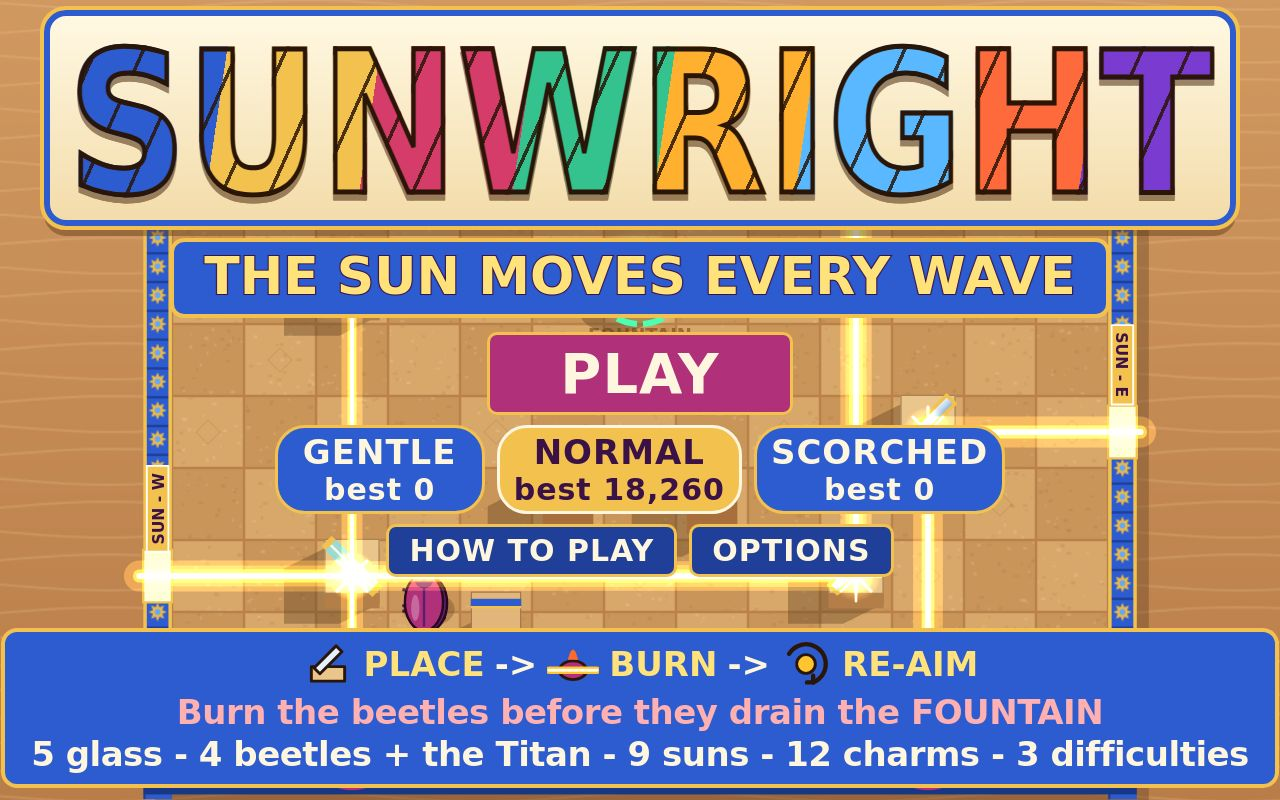
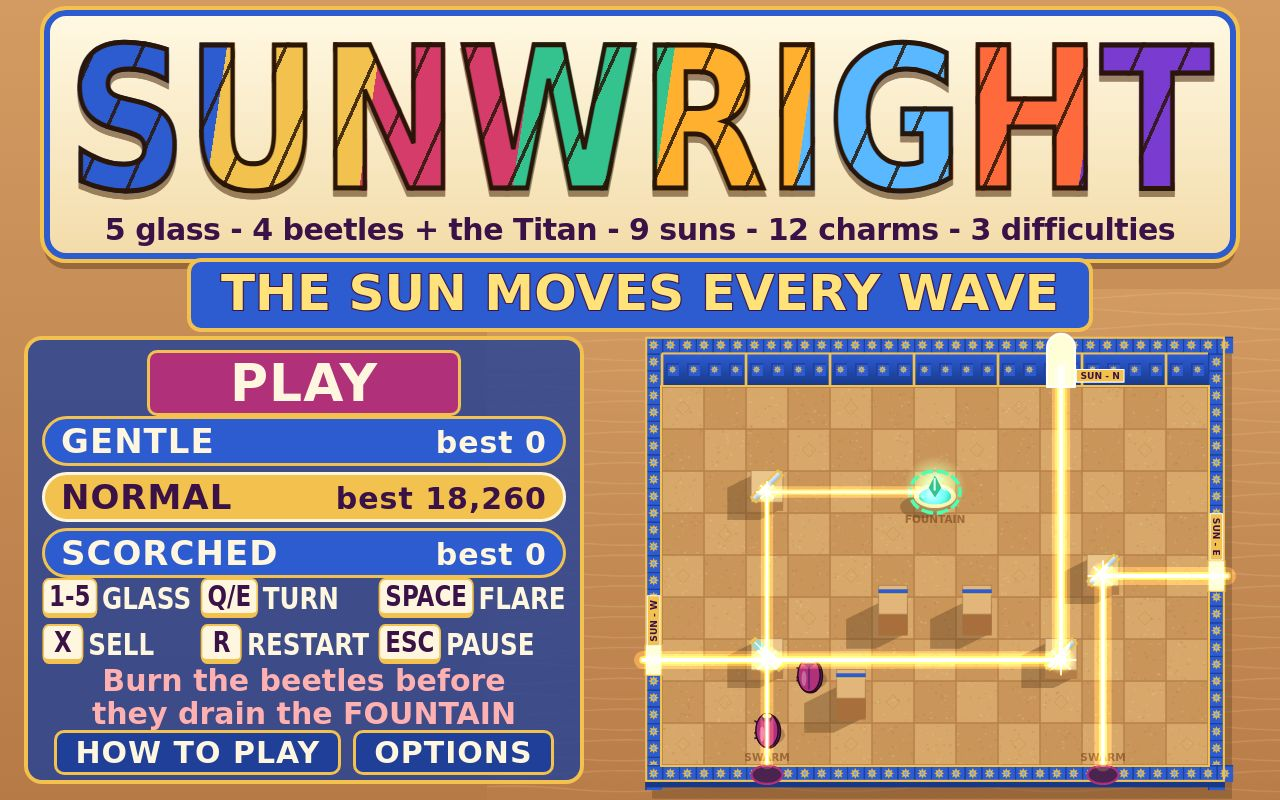
Title: menu card on the left (PLAY, difficulty pills, keycap rows for every control, lose rule), scope line as the wordmark's subtitle, three-sun courtyard on the right with its labels uncovered

diff --git a/game/style.css b/game/style.css
@@ -10,33 +10,32 @@ button:disabled { opacity: 0.45; cursor: default; }
 button.big { font-size: 30px; padding: 14px 40px; background: #b0307a; }
 button.big:hover { background: #cf3f93; }
 
-/* Title: a stained-glass wordmark on a bright plaque over the live courtyard, the hook, PLAY,
-   difficulty pills with best scores, and one rules box (loop pictograms, lose rule, scope). */
-#title-screen { background: none; }
-.banner { margin-top: 10px; width: 1180px; display: flex; justify-content: center; padding: 0; background: linear-gradient(#fff8e2, #f3dcaa); border: 6px solid #2d5bd0; outline: 4px solid #f2c14e; border-radius: 22px; box-shadow: 0 10px 0 rgba(91, 58, 30, 0.45); }
-#wordmark { margin: -6px 0 -18px; white-space: nowrap; transform: scaleX(0.84); font: 900 196px system-ui, sans-serif; letter-spacing: 0; color: transparent;
+/* Title: the stained-glass wordmark with the scope line, the hook, a lapis menu card on the left,
+   the live courtyard (three suns) on the right. */
+#title-screen { display: block; background: none; }
+.banner { position: absolute; left: 50%; top: 10px; transform: translateX(-50%); width: 1180px; display: flex; flex-direction: column; align-items: center; padding: 0 0 6px; background: linear-gradient(#fff8e2, #f3dcaa); border: 6px solid #2d5bd0; outline: 4px solid #f2c14e; border-radius: 22px; box-shadow: 0 10px 0 rgba(91, 58, 30, 0.45); }
+#wordmark { margin: -10px 0 -22px; white-space: nowrap; transform: scaleX(0.84); font: 900 196px system-ui, sans-serif; letter-spacing: 0; color: transparent;
   background-image: repeating-linear-gradient(118deg, transparent 0 46px, rgba(42, 22, 8, 0.85) 46px 50px), linear-gradient(100deg, #2d5bd0 0 14%, #f2c14e 14% 27%, #d63c6a 27% 40%, #34c38f 40% 52%, #ffb02e 52% 64%, #59b8ff 64% 77%, #ff6a3d 77% 88%, #7a3bd0 88%);
   -webkit-background-clip: text; background-clip: text; -webkit-text-stroke: 5px #2a1608; filter: drop-shadow(0 6px 0 rgba(91, 58, 30, 0.6)); }
-.hook { margin: 12px 0 0; padding: 4px 30px 8px; font: 900 52px system-ui, sans-serif; color: #ffe27a; background: #2d5bd0; border: 4px solid #f2c14e; border-radius: 14px; -webkit-text-stroke: 2px #3b1247; paint-order: stroke fill; }
-.menu { margin-top: 14px; display: flex; flex-direction: column; align-items: center; gap: 10px; }
-#play-button { font-size: 56px; padding: 6px 70px; }
-.picker { display: flex; gap: 12px; }
-.row { display: flex; gap: 12px; }
-.row button { font-size: 30px; padding: 6px 20px; }
-.diff { display: flex; flex-direction: column; align-items: center; min-width: 210px; padding: 4px 14px; background: #2d5bd0; border-radius: 30px; }
+.scope { margin: 0; font: 900 30px system-ui, sans-serif; color: #3b1247; white-space: nowrap; letter-spacing: -0.5px; }
+.hook { position: absolute; left: 50%; top: 258px; transform: translateX(-50%); margin: 0; padding: 2px 30px 6px; white-space: nowrap; font: 900 50px system-ui, sans-serif; color: #ffe27a; background: #2d5bd0; border: 4px solid #f2c14e; border-radius: 14px; -webkit-text-stroke: 2px #3b1247; paint-order: stroke fill; }
+.title-card { position: absolute; left: 24px; top: 336px; bottom: 16px; width: 560px; box-sizing: border-box; display: flex; flex-direction: column; align-items: center; justify-content: space-between; padding: 10px 14px; background: rgba(31, 63, 153, 0.8); border: 4px solid #f2c14e; border-radius: 18px; }
+#play-button { font-size: 52px; padding: 0 80px; }
+.picker { display: flex; flex-direction: column; gap: 6px; width: 100%; }
+.diff { display: flex; justify-content: space-between; align-items: baseline; width: 100%; padding: 2px 16px; background: #2d5bd0; border-radius: 26px; }
 .diff b { font-size: 34px; }
-.diff.on { background: #f2c14e; color: #3b1247; border-color: #fff6df; }
 .diff small { font-weight: 800; font-size: 30px; }
+.diff.on { background: #f2c14e; color: #3b1247; border-color: #fff6df; }
+.keycaps { display: grid; grid-template-columns: auto auto auto; gap: 6px 12px; font: 900 30px system-ui, sans-serif; color: #fff6df; transform: scaleX(0.82); }
+.keycaps span { display: flex; align-items: center; gap: 6px; white-space: nowrap; }
+kbd { display: inline-block; min-width: 34px; padding: 0 6px; font: 900 28px system-ui, sans-serif; text-align: center; color: #3b1247; background: #fff6df; border: 2px solid #f2c14e; border-bottom-width: 5px; border-radius: 8px; }
+#rule-lose { margin: 0; font: 900 30px system-ui, sans-serif; line-height: 1.1; text-align: center; color: #ffb0b0; }
+.row { display: flex; gap: 12px; }
+.row button { font-size: 30px; padding: 2px 18px; }
 .options label { display: grid; grid-template-columns: 220px 200px; justify-items: start; align-items: center; gap: 16px; font-weight: 800; font-size: 20px; }
 .options input[type=range] { width: 200px; accent-color: #f2c14e; }
 .options input[type=checkbox] { width: 24px; height: 24px; accent-color: #f2c14e; }
 .keys { margin: 0; font-weight: 700; opacity: 0.85; }
-.rules { position: absolute; bottom: 12px; padding: 6px 26px 8px; background: #2d5bd0; border: 4px solid #f2c14e; border-radius: 16px; text-align: center; }
-.rules p { margin: 2px 0; font-weight: 900; font-size: 34px; white-space: nowrap; letter-spacing: -0.5px; }
-#rule-lose { color: #ffb0b0; }
-.loop { display: flex; align-items: center; justify-content: center; gap: 10px; font: 900 34px system-ui, sans-serif; color: #ffe27a; }
-.loop canvas { width: 52px; height: 52px; }
-.loop .arrow { color: #fff6df; }
 
 /* Sheets: how-to, pause, results */
 .sheet { margin: auto; padding: 24px 40px 28px; background: rgba(31, 63, 153, 0.95); border: 4px solid #f2c14e; border-radius: 18px; text-align: center; display: flex; flex-direction: column; align-items: center; gap: 12px; }

diff --git a/game/src/render/scene.js b/game/src/render/scene.js
@@ -3,7 +3,7 @@
 // a win floods the courtyard with sunrise, a defeat drains the light.
 import { drawBeamGhost, drawBeams, drawFx, drawNextSunGhost, drawScreenFx, shakeOffset } from './fx.js';
 import { drawHud } from './hud.js';
-import { drawCourtyard, drawMarchLines, drawPiece, drawPieces, drawShrine } from './board.js';
+import { drawCourtyard, drawMarchLines, drawPiece, drawPieces, drawSandSurround, drawShrine } from './board.js';
 import { drawEnemies } from './beetles.js';
 import { drawResultsHero } from './results.js';
 import { shadowVectorFor, sunApertureFor } from '../sun.js';
@@ -27,6 +27,9 @@ function drawCellCursor(ctx, cell, ok) {
     ctx.stroke();
   }
 }
+
+/** Where the title's demo courtyard sits: centred right of the menu card, below the hook. */
+const TITLE_DEMO = { x: 935, y: 562, scale: 0.7 };
 
 const nextCache = { run: null, version: -1, value: null };
 
@@ -53,10 +56,11 @@ export function drawFrame(ctx, frame) {
   const s = frame.shake ? shakeOffset(fx, time) : { x: 0, y: 0 };
   ctx.translate(s.x, s.y);
   if (frame.titleTraces) {
-    // Title: the courtyard fills the frame and bleeds past it, every sun window ablaze.
-    ctx.translate(VIEW_W / 2, VIEW_H / 2 + 20);
-    ctx.scale(1.2, 1.2);
-    ctx.translate(-VIEW_W / 2, -VIEW_H / 2);
+    // Title: the courtyard sits to the right of the menu card, every sun window ablaze.
+    drawSandSurround(ctx);
+    ctx.translate(TITLE_DEMO.x, TITLE_DEMO.y);
+    ctx.scale(TITLE_DEMO.scale, TITLE_DEMO.scale);
+    ctx.translate(-VIEW_W / 2, -390);
   }
   drawCourtyard(ctx, run, time, !!frame.titleTraces);
   if (frame.showHud && (phase === 'build' || phase === 'wave')) drawMarchLines(ctx, run, time);

diff --git a/game/index.html b/game/index.html
@@ -23,20 +23,21 @@
   <section id="title-screen" class="overlay">
     <div class="banner">
       <h1 id="wordmark">SUNWRIGHT</h1>
+      <p id="rule-scope" class="scope"></p>
     </div>
     <p id="rule-sun" class="hook">THE SUN MOVES EVERY WAVE</p>
-    <div class="menu">
+    <div class="title-card">
       <button id="play-button" class="big" data-action="play">PLAY</button>
       <div id="difficulty-picker" class="picker"></div>
+      <div id="keycaps" class="keycaps">
+        <span><kbd>1-5</kbd>GLASS</span><span><kbd>Q/E</kbd>TURN</span><span><kbd>SPACE</kbd>FLARE</span>
+        <span><kbd>X</kbd>SELL</span><span><kbd>R</kbd>RESTART</span><span><kbd>ESC</kbd>PAUSE</span>
+      </div>
+      <p id="rule-lose">Burn the beetles before<br>they drain the FOUNTAIN</p>
       <div class="row">
         <button id="howto-button" data-action="howto">HOW TO PLAY</button>
         <button id="options-button" data-action="options">OPTIONS</button>
       </div>
-    </div>
-    <div id="rules-strip" class="rules">
-      <div id="rule-loop" class="loop"></div>
-      <p id="rule-lose">Burn the beetles before they drain the FOUNTAIN</p>
-      <p id="rule-scope"></p>
     </div>
   </section>
 

diff --git a/game/src/ui/menus.js b/game/src/ui/menus.js
@@ -6,7 +6,6 @@ import { boonById, rerollCost } from '../draft.js';
 import { sunApertureFor } from '../sun.js';
 import { waveRoster } from '../waves.js';
 import { drawCharmGlyph } from '../render/charms.js';
-import { drawLoopPicto } from '../render/pictos.js';
 
 
 const SCREENS = ['title', 'howto', 'options', 'pause', 'draft', 'results'];
@@ -53,12 +52,6 @@ export function showTitle(menus, bestFor, selected) {
       <b>${DIFFICULTIES[id].name}</b><small>best ${best.score.toLocaleString('en-US')}</small></button>`;
   }).join('');
   el('rule-scope').textContent = SCOPE_LINE;
-  if (!el('rule-loop').childElementCount) {
-    el('rule-loop').innerHTML = [['place', 'PLACE'], ['burn', 'BURN'], ['reaim', 'RE-AIM']]
-      .map(([kind, label], k) => `${k ? '<span class="arrow">-&gt;</span>' : ''}<canvas width="52" height="52" data-picto="${kind}"></canvas><span>${label}</span>`)
-      .join('');
-    for (const canvas of el('rule-loop').querySelectorAll('canvas')) drawLoopPicto(canvas.getContext('2d'), canvas.dataset.picto, 52);
-  }
 }
 
 /** The draft: a huge "SUN MOVES WEST - PICK 1", three roundels (effect on hover), reroll, NEW chip. */

diff --git a/game/src/render/board.js b/game/src/render/board.js
@@ -152,6 +152,15 @@ function buildWallTexture() {
   return cv;
 }
 
+/** Plain warm sand behind everything (the title shows the courtyard smaller, off to the right). */
+export function drawSandSurround(ctx) {
+  const bg = ctx.createLinearGradient(0, 0, 0, VIEW_H);
+  bg.addColorStop(0, '#D39A62');
+  bg.addColorStop(1, '#B67A46');
+  ctx.fillStyle = bg;
+  ctx.fillRect(0, 0, VIEW_W, VIEW_H);
+}
+
 /** Where a sun window sits in its wall (screen pixels). */
 function windowRect(ap) {
   if (ap.wall === 'east') return { x: BOARD_X + BOARD_W, y: BOARD_Y + ap.r * CELL + 8, w: WALL, h: CELL - 16 };

diff --git a/NOTES.md b/NOTES.md
@@ -97,6 +97,11 @@
   meta line (difficulty, seed, run clock, +N over the previous best from recordRun), compact RUN
   HISTORY (red RESULT_LOSE_TITLE caption + chips), NEXT GOAL under RUN AGAIN; TITAN BURNED IN on canvas.
 
+- Benchmark 4 items 10 + 2: title = wordmark plaque with SCOPE_LINE as subtitle, hook band, 80% lapis
+  menu card on the left (PLAY, stacked difficulty pills, keycap rows 1-5 GLASS / Q/E TURN / SPACE FLARE
+  / X SELL / R RESTART / ESC PAUSE, lose rule, HOW TO PLAY / OPTIONS), the three-sun courtyard on the
+  right at 0.7 with every board label uncovered. Loop pictograms removed (render/pictos.js deleted).
+
 ## Next
 - M3 feel (rest): hit-stop-like pop on SEAR steps, fountain pip crack, quartz counter pulse,
   colour-blind beam patterns (option), How to play illustrated panels.
